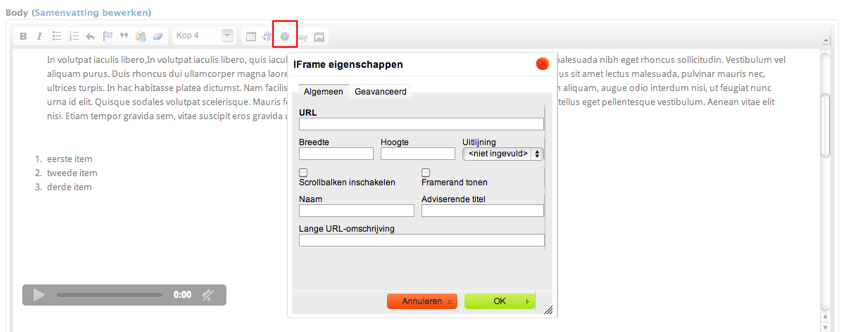
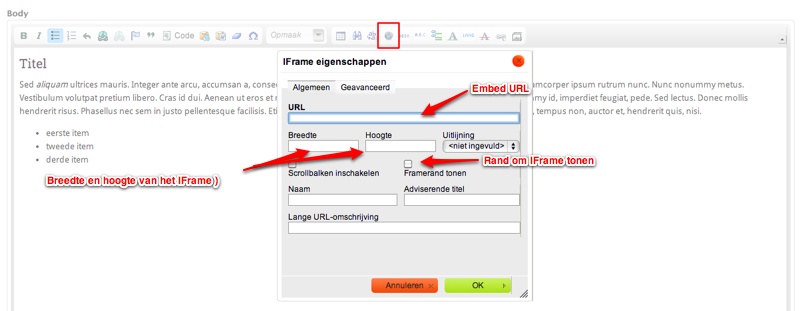
Handleiding: wysiwyg knoppen aangevuld

diff --git a/docs/handleiding/content_management/wysiwyg.tex b/docs/handleiding/content_management/wysiwyg.tex
@@ -24,8 +24,8 @@ Om een bepaald woord nadruk te geven kan men de Vet (B) knop gebruiken. Gebruik 
 	\includegraphics[width=\textwidth]{img/bold.png}
 \end{center}
 
-\subsubsection{Italic}
-Om een bepaald woord nadruk te geven kan men de Schuin knop gebruiken, oftewel de I-knop.
+\subsubsection{Cursief}
+Om een bepaald woord nadruk te geven kan men de \emph{Cursief} knop gebruiken, oftewel de I-knop.
 \begin{enumerate}
 \item Selecteer het woord met de muis wat u schuin wilt maken.
 \item Klik op de I-knop.	
@@ -71,6 +71,27 @@ de WYSIWYG-editor kun je een (externe)pagina tonen op een pagina van \drupalpath
 	\includegraphics[width=\textwidth]{img/iframe1.png}
 \end{center}
 
+\subsubsection{Afkortingen}
+Via de \emph{afkorting knop} kan een afkorting aangemaakt worden. Als je met de muis over de afkorting gaat zal de betekenis getoond worden.
+\begin{center}
+	\includegraphics[width=\textwidth]{img/afkorting1.png}
+	\includegraphics[width=\textwidth]{img/afkorting2.png}
+\end{center}
+
+De onderstaande afbeelding toont het resultaat.
+\begin{center}
+	\includegraphics[width=\textwidth]{img/afkorting3.png}
+\end{center}
+
+\subsubsection{Acroniem}
+\emph{Een acroniem of letterwoord is een afkorting die wordt uitgesproken als een woord.} Bijvoorbeeld \emph{GPS} spreekt men vrijwel altijd uit als \emph{GPS}, maar betekent in werkelijkheid \emph{Global Positioning System}.
+Via de \emph{acroniem knop} kan een acroniem aangemaakt worden. Als je met de muis over een acroniem gaat zal de betekenis getoond worden.
+\begin{center}
+	\includegraphics[width=\textwidth]{img/acroniem.png}
+	\includegraphics[width=\textwidth]{img/acroniem2.png}
+	\includegraphics[width=\textwidth]{img/acroniem3.png}
+\end{center}
+
 \subsubsection{Tabellen}
 Via de \emph{tabel knop} kan een tabel worden ingevoegd. 
 \begin{center}
@@ -80,6 +101,78 @@ Nadat je op de \emph{tabel knop} hebt geklikt verschijnt er een dialoog met vers
 \begin{center}
 	\includegraphics[width=\textwidth]{img/tabellen2.png}
 \end{center}
+
+\subsubsection{Citaatblok}
+Met de \emph{Citaatblok knop} kun je een alinea extra laten opvallen. 
+Klik op de gewenste alinea en klik vervolgens op de \emph{Citaatblok knop}.
+\begin{center}
+	\includegraphics[width=\textwidth]{img/citaatblok.png}
+\end{center}
+
+De onderstaande afbeelding toont een voorbeeld waarbij de tweede alinea opvallender is gemaakt met de \emph{citaatblok knop}.
+
+\begin{center}
+	\includegraphics[width=\textwidth]{img/citaatblok2.png}
+\end{center}
+
+\subsubsection{Plakken uit word}
+\begin{enumerate}
+\item Kopieer de tekst van je \emph{Word document}.
+\item Klik op de \emph{Plakken uit word knop}.
+\item Plak de gekopieerde tekst in het tekstveld.
+\item Klik op de knop \emph{OK} om de tekst in te voegen.
+\end{enumerate}
+\begin{center}
+	\includegraphics[width=\textwidth]{img/plakken_uit_word.png}
+\end{center}
+
+\subsubsection{Invoegen van woord}
+Gebruik de \emph{invoegen van woord knop} om een woord te onderstrepen.
+\begin{center}
+	\includegraphics[width=\textwidth]{img/invoegen_van_woord.png}
+\end{center}
+
+\subsubsection{Verwijderen van woord}
+Gebruik de \emph{verwijderen van woord knop} om een woord te doorstrepen.
+\begin{center}
+	\includegraphics[width=\textwidth]{img/verwijderen_van_woord.png}
+\end{center}
+
+\subsubsection{Zoek en vervang}
+Met de \emph{zoek en vervang} knop kun je in een paar handelingen specifieke woorden of zinnen vervangen.
+De onderstaande afbeelding laat zien hoe dit moet.
+\begin{center}
+	\includegraphics[width=\textwidth]{img/zoek_en_vervang.png}
+	\includegraphics[width=\textwidth]{img/zoek_en_vervang2.png}
+\end{center}
+
+\subsubsection{Taal veranderen per woord}
+
+\begin{center}
+	\includegraphics[width=\textwidth]{img/taal_veranderen_per_woord.png}
+\end{center}
+
+\subsubsection{Ongedaan maken}
+Met de \emph{ongedaan maken knop} kun je alle wijzigingen, \emph{die nog niet zijn opgeslagen}, stap voor stap (wijziging voor wijziging) ongedaan maken. 
+\begin{center}
+	\includegraphics[width=\textwidth]{img/ongedaan_maken.png}
+\end{center}
+
+\subsubsection{Speciaal teken invoegen}
+Met de \emph{Speciaal teken knop} kun je speciale tekens toevoegen aan de tekst. Klik op de \emph{Speciaal teken knop} en selecteer het gewenste teken, het teken zal gelijk worden ingevoegd.
+\begin{center}
+	\includegraphics[width=\textwidth]{img/speciaal_teken_invoegen.png}
+\end{center}
+
+\subsubsection{Definitie lijst}
+Met de \emph{definitie lijst knop} kun je lijsten maken met definities. Definitie lijsten kun je bijvoorbeeld onderaan de tekst toevoegen om bronnen e.d. te vermelden.
+De onderstaande afbeeldingen geven weer hoe dit in zijn werking gaat.
+\begin{center}
+	\includegraphics[width=\textwidth]{img/definitie_lijst.png}
+	\includegraphics[width=\textwidth]{img/definitie_lijst2.png}
+	\includegraphics[width=\textwidth]{img/definitie_lijst3.png}
+\end{center}
+
 
 \subsubsection{(Externe)Links}
 De Linkit module zorgt voor een makkelijke methode om links in content te plaatsen.  
@@ -99,7 +192,7 @@ Er zijn twee methoden beschikbaar om links in content te plaatsen. \emph{Methode
 \begin{center}
 	\includegraphics[width=\textwidth]{img/linkit1.png}
 	\includegraphics[width=\textwidth]{img/linkit2.png}
-	\includegraphics[width=\textwidth]{img/linkit3.png}
+	\includegraphics[width=\textwidth]{img/linkit4.png}
 \end{center}
 
 \textbf{Methode 2:} 
@@ -112,8 +205,7 @@ Er zijn twee methoden beschikbaar om links in content te plaatsen. \emph{Methode
 \end{enumerate}
 
 \begin{center}
-	\includegraphics[width=\textwidth]{img/linkit4.png}
-	\includegraphics[width=\textwidth]{img/linkit5.png}
+	\includegraphics[width=\textwidth]{img/linkit3.png}
 \end{center}
 
 \subsubsection{(Anker) Links}\label{ankers}
@@ -131,7 +223,6 @@ Voordat er gerefereerd kan worden naar een anker moet deze eerst aangemaakt word
 
 \begin{center}
 	\includegraphics[width=\textwidth]{img/anker1.png}
-	\includegraphics[width=\textwidth]{img/anker3.png}
 	\includegraphics[width=\textwidth]{img/anker2.png}
 \end{center}
 
@@ -145,6 +236,7 @@ Voordat er gerefereerd kan worden naar een anker moet deze eerst aangemaakt word
 \end{enumerate}
 
 \begin{center}
+	\includegraphics[width=\textwidth]{img/wysiwyg_add_media_button.png}
 	\includegraphics[width=\textwidth]{img/youtube0.png}
 \end{center}
 
@@ -168,7 +260,7 @@ Let op: alleen eindredacteuren kunnen Full HTML nodes wijzigen.
 \subsubsection{Afbeelding invoegen}
 
 \begin{center}
-	\includegraphics[width=\textwidth]{img/wysiwyg_add_media.png}
+	\includegraphics[width=\textwidth]{img/wysiwyg_add_media_button.png}
 \end{center}
 
 Voor het toevoegen van een afbeelding via de WYSIWYG editor kun je dezelfde stappen volgen als voor \emph{Media}\seeone{media}. Het enige verschil is dat na het selecteren van de afbeelding er gekozen kan worden voor een afbeeldingsformaat, deze staan beschreven in hoofdstuk \emph{Afbeeldingsstijlen}\seeone{afbeeldingsstijlen}. De afbeelding met het gekozen formaat zal altijd links uitlijnen met een marge aan de rechterkant.

diff --git a/docs/handleiding/content_management/tabs.tex b/docs/handleiding/content_management/tabs.tex
@@ -1,6 +1,6 @@
 \subsection{Tabs toevoegen}\label{tabstoevoegen}
 Aan alle inhoudstypen kunnen \emph{Tabs} toegevoegd worden. 
-Tabs toevoegen kan alleen bij velden waarbij de WYSIWYG \seeone{wysiwyg} editor geactiveerd is; op het veld \emph{Body} is vrijwel altijd de WYSIWYG editor geactiveerd.
+Tabs toevoegen kan alleen bij velden waarbij de WYSIWYG editor geactiveerd is; op het veld \emph{Body} is vrijwel altijd de WYSIWYG editor geactiveerd.
 
 Een tab moet opgebouwd worden uit twee delen: de titel van de tab en de content van de tab.
 
